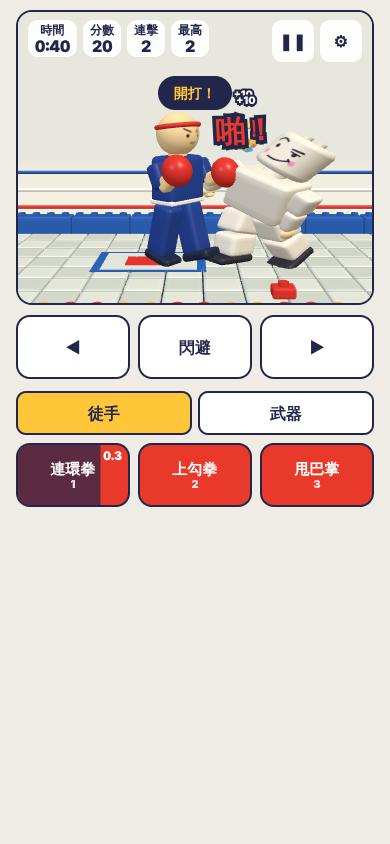
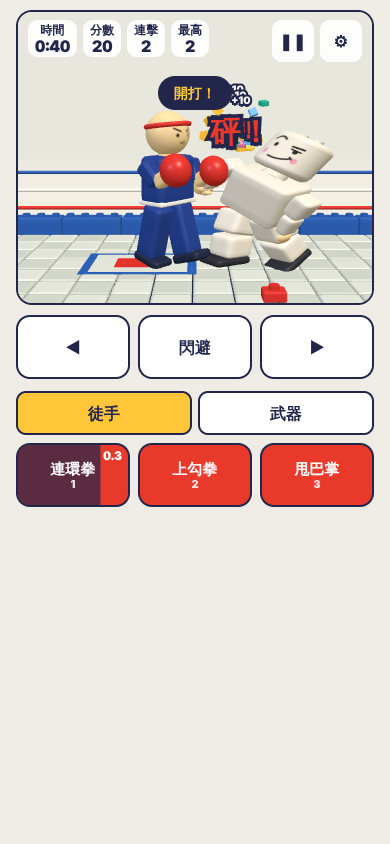
甩巴掌：踏步補距離、手掌甩到木偶臉上
Claude-Session: https://claude.ai/code/session_01W9KMAiYuezKnkxaZ7ikoB8

Changed region(s): [[0.0308, 0.0924, 0.9538, 0.3697]]

diff --git a/src/game/player/Player.ts b/src/game/player/Player.ts
@@ -6,6 +6,10 @@ import { buildShoe } from '../projectiles/shoeModel';
 import type { Group } from 'three';
 
 const lerp = (a: number, b: number, t: number) => a + (b - a) * t;
+const smooth = (t: number) => {
+  const x = Math.max(0, Math.min(1, t));
+  return x * x * (3 - 2 * x);
+};
 
 /** 玩家角色的狀態與動作。 */
 export class Player {
@@ -108,13 +112,36 @@ export class Player {
     }
   }
 
-  /** 依目前狀態擺姿勢（每個渲染畫格呼叫）。 */
-  pose(frameDt: number) {
+  /**
+   * 依目前狀態擺姿勢（每個渲染畫格呼叫）。target＝對手的位置與臉的高度，
+   * 甩巴掌時用來讓手真的甩到臉上。
+   */
+  pose(frameDt: number, target: { x: number; faceY: number; faceFront: number }) {
     const L = this.rig;
     const a = this.attack;
     L.root.position.set(this.x, this.hop, 0);
-    const face = this.facing > 0 ? 0.85 : -0.85;
-    this.bodyYaw += (face - this.bodyYaw) * Math.min(1, frameDt * 14);
+    let face = this.facing > 0 ? 0.85 : -0.85;
+    let yawRate = 14;
+    let slap: { arm: 'L' | 'R'; shX: number } | null = null;
+    if (a && a.move.id === 'slap') {
+      const S = PLAYER.slapAnim;
+      const t = a.t;
+      const w = a.move.windup;
+      // 往前踏一步補足距離：手臂長度扣掉高度差後，剩下的水平距離靠踏步
+      const dy = target.faceY - (S.shoulderY + this.hop);
+      const reachX = Math.sqrt(Math.max(0, S.armLength * S.armLength - dy * dy));
+      const gap = Math.abs(target.x - this.x) - target.faceFront;
+      const lunge = Math.min(S.maxLunge, Math.max(0, gap - reachX));
+      const inOut = t < S.lungeIn ? smooth(t / S.lungeIn) : t < S.hold ? 1 : 1 - smooth((t - S.hold) / Math.max(0.01, a.move.duration - S.hold));
+      L.root.position.x += this.facing * lunge * inOut;
+      // 身體轉正面對對手，扭腰把手掌從旁邊甩過臉（判定時間點剛好掃過臉）
+      const twist = t < w ? lerp(-S.twistBack, 0, t / w) : t < S.hold ? lerp(0, S.twistThrough, (t - w) / (S.hold - w)) : lerp(S.twistThrough, 0, smooth((t - S.hold) / Math.max(0.01, a.move.duration - S.hold)));
+      face = this.facing * (Math.PI / 2 + twist);
+      yawRate = 40;
+      const elev = Math.atan2(dy, Math.max(0.2, reachX));
+      slap = { arm: this.facing > 0 ? 'L' : 'R', shX: -(Math.PI / 2 + elev) * Math.min(1, inOut * 1.5) };
+    }
+    this.bodyYaw += (face - this.bodyYaw) * Math.min(1, frameDt * yawRate);
     L.body.rotation.y = this.bodyYaw;
     L.body.rotation.z = this.stun > 0 ? 0.22 * this.facing : this.dodge > 0 ? 0.3 * this.facing : 0;
     const bob = Math.sin(this.bob * 5) * 0.06;
@@ -139,10 +166,15 @@ export class Player {
         A.shR = [lerp(-0.2, -2.9, p), 0];
         A.elR = lerp(-1.6, -0.3, p);
         L.root.position.y += Math.sin(p * Math.PI) * 0.25;
-      } else if (m.id === 'slap') {
-        const p = Math.min(1, t / 0.16);
-        A.shR = [-1.45, lerp(-1.0, 0.7, p)];
-        A.elR = 0;
+      } else if (m.id === 'slap' && slap) {
+        // 靠鏡頭那一側的手，伸直、張開手掌
+        if (slap.arm === 'L') {
+          A.shL = [slap.shX, 0];
+          A.elL = 0;
+        } else {
+          A.shR = [slap.shX, 0];
+          A.elR = 0;
+        }
         open = true;
       } else if (m.id === 'shoe') {
         const p = Math.min(1, t / 0.12);
@@ -165,7 +197,11 @@ export class Player {
     L.shR.rotation.set(A.shR[0], 0, A.shR[1]);
     L.elL.rotation.x = A.elL;
     L.elR.rotation.x = A.elR;
-    L.gloveR.scale.set(open ? 0.5 : 1, open ? 1.35 : 1.05, open ? 1.2 : 1.1);
+    const openArm = slap?.arm;
+    for (const [g, side] of [[L.gloveL, 'L'], [L.gloveR, 'R']] as const) {
+      const o = open && openArm === side;
+      g.scale.set(o ? 0.5 : 1, o ? 1.35 : 1.05, o ? 1.2 : 1.1);
+    }
     this.heldShoe.visible = !!(a && a.move.id === 'shoe' && a.t < a.move.windup);
   }
 }

diff --git a/src/game/battle/BattleController.ts b/src/game/battle/BattleController.ts
@@ -16,6 +16,7 @@ import { buildPlayer } from '../player/playerModel';
 import { ShoeProjectiles } from '../projectiles/shoes';
 import type { PaintStore } from '../puppet/paintSurface';
 import { Puppet, type PuppetEvent } from '../puppet/Puppet';
+import { headCenterY, PART_DEFS } from '../puppet/parts';
 import { ScoreLedger, type ScoreLine } from '../scoring/ScoreLedger';
 import { ARENA_BACKGROUND, buildArena } from '../three/arena';
 import { computeFrame } from '../three/camera';
@@ -380,7 +381,7 @@ export class BattleController {
     this.paint.flush();
     const p = this.puppet;
     const pl = this.player;
-    pl.pose(frameDt);
+    pl.pose(frameDt, { x: p.x, faceY: p.lift + headCenterY() * p.squashScaleY, faceFront: PART_DEFS.head.size[2] / 2 });
     const f = computeFrame({
       aspect: this.host.camera.aspect,
       fov: this.host.camera.fov,

diff --git a/src/game/player/playerModel.ts b/src/game/player/playerModel.ts
@@ -21,6 +21,7 @@ export interface PlayerRig {
   shR: Group;
   elL: Group;
   elR: Group;
+  gloveL: Mesh;
   gloveR: Mesh;
 }
 
@@ -130,7 +131,7 @@ export function buildPlayer(shadows = true): PlayerRig {
     arms.push(sh);
     elbows.push(el);
   }
-  return { root, body, torso, legL: legs[0], legR: legs[1], shL: arms[0], shR: arms[1], elL: elbows[0], elR: elbows[1], gloveR: gloves[1] };
+  return { root, body, torso, legL: legs[0], legR: legs[1], shL: arms[0], shR: arms[1], elL: elbows[0], elR: elbows[1], gloveL: gloves[0], gloveR: gloves[1] };
 }
 
 /** 待機拳架（階段 1 只有待機）。 */

diff --git a/src/config/moves.config.ts b/src/config/moves.config.ts
@@ -98,6 +98,8 @@ export const PLAYER = {
   inputBuffer: 0.25,
   /** 格鬥站姿：前腳往前、後腳往後（弧度） */
   stance: { front: 0.3, back: 0.25 },
+  /** 甩巴掌動畫：肩高、手臂長（到掌心）、踏步上限、時間點（秒）、扭腰角度 */
+  slapAnim: { shoulderY: 2.93, armLength: 1.55, maxLunge: 2.6, lungeIn: 0.05, hold: 0.16, twistBack: 0.65, twistThrough: 0.45 },
 } as const;
 
 /** 投射物碰撞：木偶受擊框額外寬度、移除範圍 */

diff --git a/src/game/puppet/parts.ts b/src/game/puppet/parts.ts
@@ -78,3 +78,6 @@ export function partFaceDims(part: PaintPartId, f: Face): [number, number] {
   }
   return faceDims(def.size, f);
 }
+
+/** 頭部中心離地高度（站直時） */
+export const headCenterY = () => SKELETON.pelvisY + SKELETON.neckJointY + SKELETON.headY;

diff --git a/src/game/puppet/Puppet.ts b/src/game/puppet/Puppet.ts
@@ -224,6 +224,10 @@ export class Puppet {
   get invulnerable() {
     return this.scatter !== null;
   }
+  get squashScaleY() {
+    return this.sy.v;
+  }
+
   get isDown() {
     return this.downT > 0;
   }

diff --git a/PLAN.md b/PLAN.md
@@ -234,3 +234,4 @@ interface HitEvent { hitId: HitId; moveId: MoveId; segment: number; at: number; 
 - 玩家積木人：球形頭＋正義臉 (・`_´・)（使用者要求，取代 SPEC 第 4 節「臉部不畫五官」）。
 - 一鍵隨機造型：先恢復空白，再隨機套臉、髮型、服裝各一款，算 1 步可復原。
 - 復原紀錄：整面同一色的格子只記顏色，避免套服裝時每步吃掉十幾 MB。
+- 甩巴掌動畫：出手時往前踏步補足距離（上限 2.6）、身體轉正面對木偶、用靠鏡頭側的手伸直張掌，扭腰在判定瞬間把手掌甩過木偶臉的高度。
